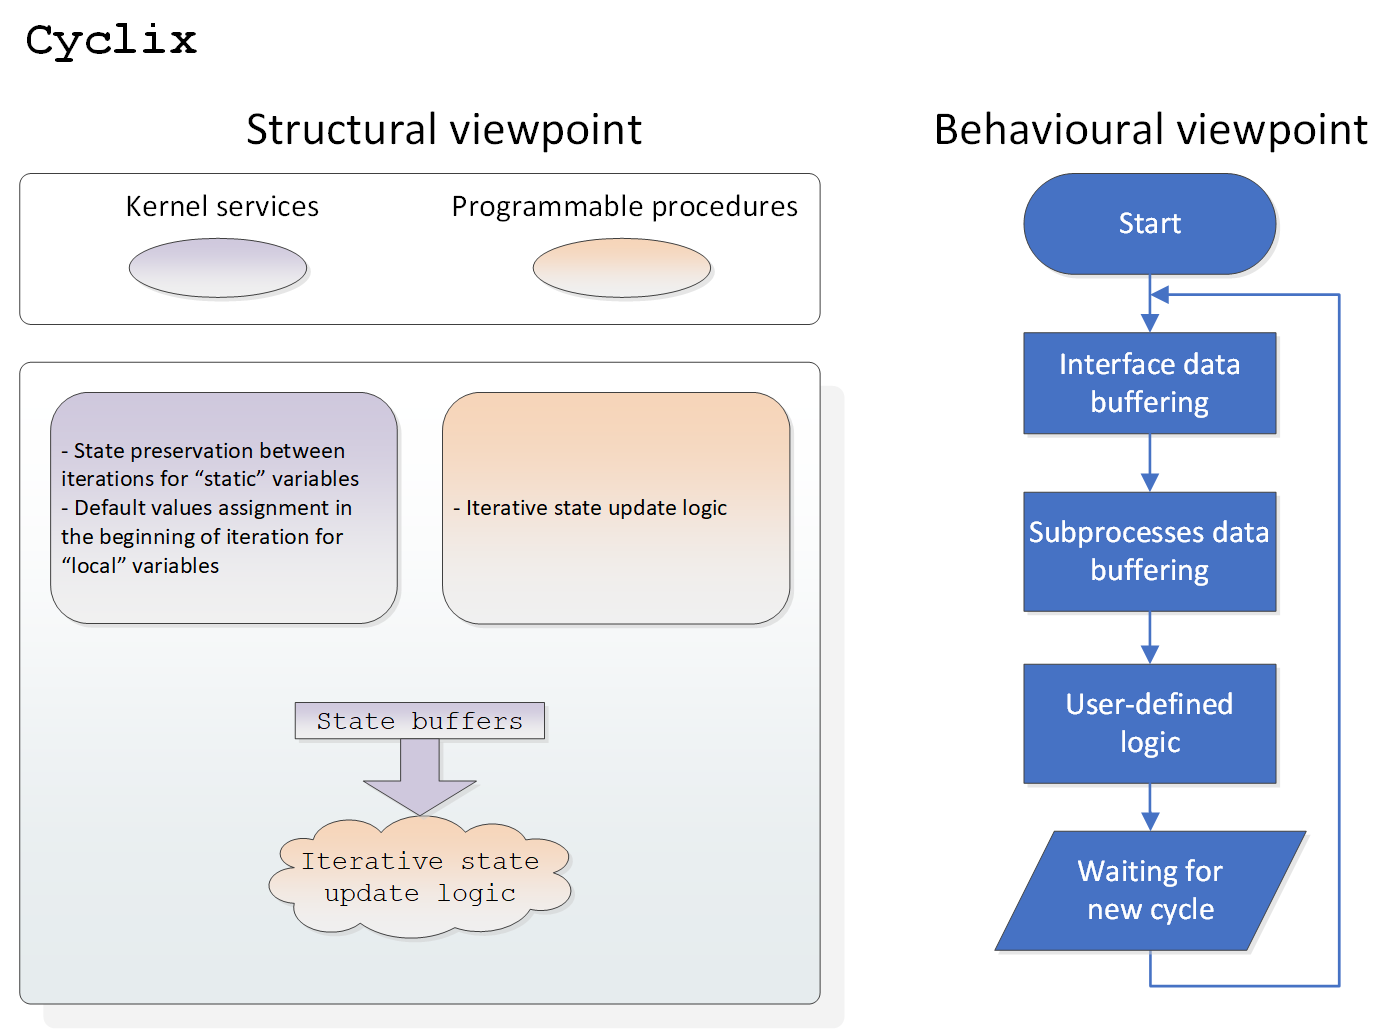
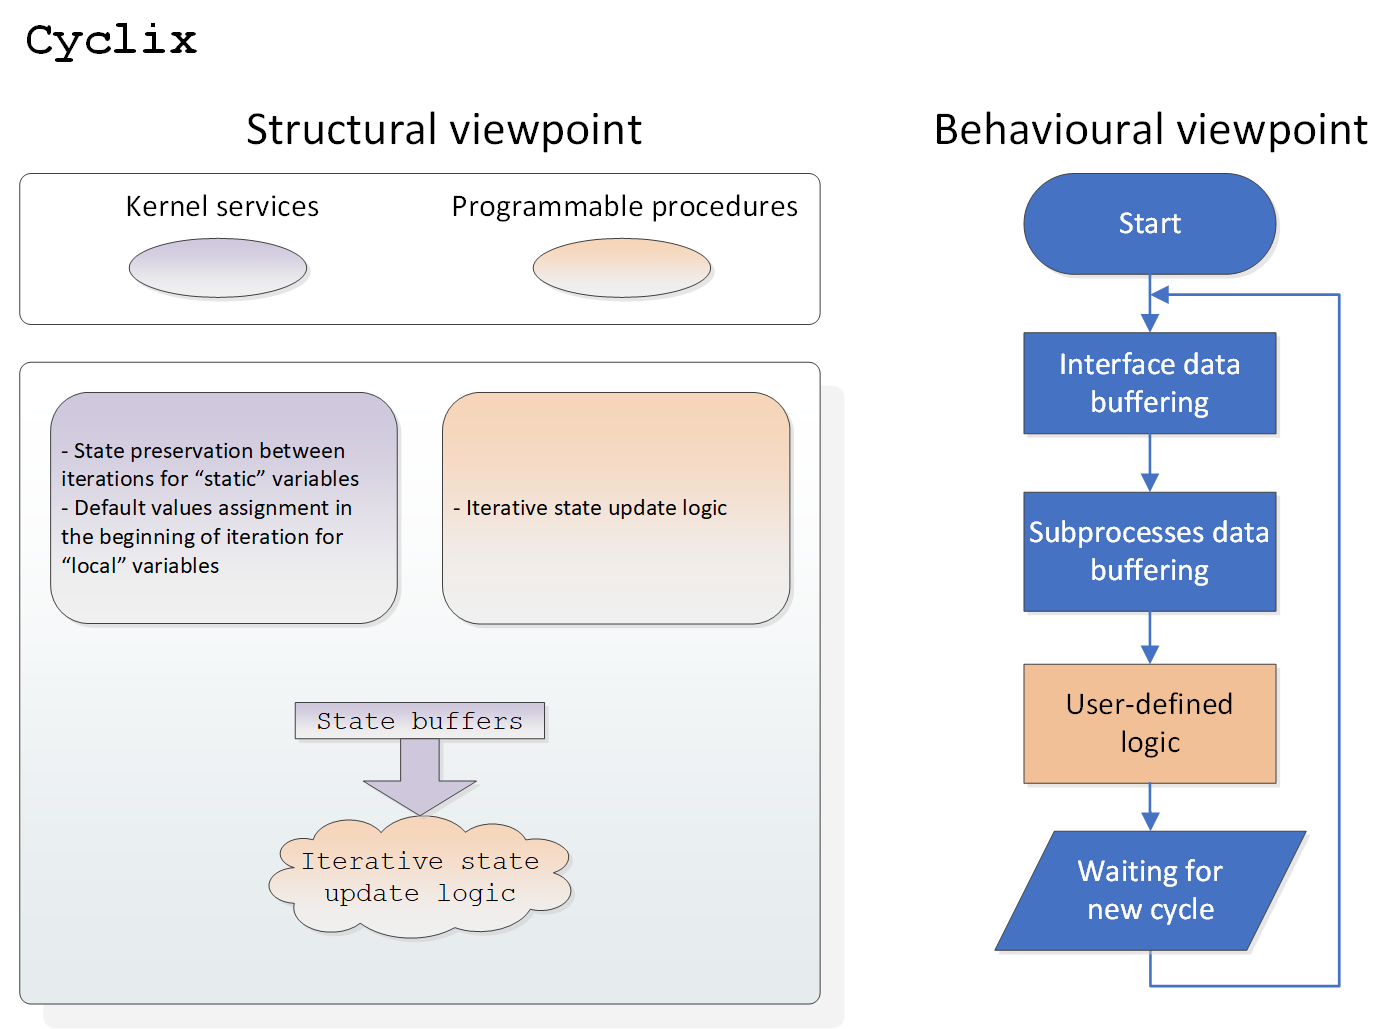
Minor cleanups

Changed region(s): [[0.7095, 0.622, 0.9254, 0.7775]]

diff --git a/kernelip/rtl/src/SvWriter.kt b/kernelip/rtl/src/SvWriter.kt
@@ -71,7 +71,7 @@ class SvWriter(var mod : module) {
         return ret_val
     }
 
-    fun export_structvar(preambule_uncond : String, preambule_cond : String, trailer : String, structvar : hw_structvar, wrFile : java.io.OutputStreamWriter) {
+    fun export_structvar(preambule_uncond : String, preambule_cond : String, preambule_pkg : String, trailer : String, structvar : hw_structvar, wrFile : java.io.OutputStreamWriter) {
         var dimstring = ""
         if (structvar.vartype.DataType == DATA_TYPE.STRUCTURED) {
             if (!structvar.vartype.dimensions.isEmpty()) {
@@ -80,6 +80,7 @@ class SvWriter(var mod : module) {
                 }
             }
             wrFile.write(preambule_uncond
+                    + preambule_pkg
                     + structvar.vartype.src_struct.name
                     + " "
                     + structvar.name
@@ -383,7 +384,7 @@ class SvWriter(var mod : module) {
             wrFileInterface.write("\ntypedef struct packed {\n")
             if (hw_struct.value.isEmpty()) hw_struct.value.addu("DUMMY", 0, 0, "0")
             for (structvar in hw_struct.value) {
-                export_structvar("\t", "logic ", ";\n", structvar, wrFileInterface)
+                export_structvar("\t", "logic ", "", ";\n", structvar, wrFileInterface)
             }
             wrFileInterface.write("} " + hw_struct.value.name + ";\n")
         }
@@ -415,7 +416,6 @@ class SvWriter(var mod : module) {
         for (incl_file in mods_included) {
             wrFileModule.write("`include \"" + incl_file + ".svh\"\n")
         }
-        wrFileModule.write("import " + mod.name + "_genpkg::*;\n")
 
         wrFileModule.write("\n")
         wrFileModule.write("module " + mod.name + " (\n")
@@ -423,6 +423,7 @@ class SvWriter(var mod : module) {
         for (port in mod.Ports) {
             wrFileModule.write(preambule)
             var preambule_cond = "logic "
+            var preambule_pkg = if (port.vartype.DataType == DATA_TYPE.STRUCTURED) (mod.name + "_genpkg::") else ""
             var dir_string = ""
             //var assign_default_string = (" = " + getStringAssignDefval(port, port.defval))
             var assign_default_string = ""
@@ -430,12 +431,13 @@ class SvWriter(var mod : module) {
             else if (port.port_dir == PORT_DIR.OUT) dir_string = "output"
             else if (port.port_dir == PORT_DIR.INOUT) dir_string = "inout"
             else ERROR("port type unrecognized!")
-            export_structvar((dir_string + " "), preambule_cond, assign_default_string, port, wrFileModule)
+            export_structvar((dir_string + " "), preambule_cond, preambule_pkg, assign_default_string, port, wrFileModule)
             preambule = "\n\t, "
         }
 
         wrFileModule.write("\n);\n")
         wrFileModule.write("\n")
+        wrFileModule.write("import " + mod.name + "_genpkg::*;\n\n")
 
         MSG("Exporting modules and ports: done")
 
@@ -450,7 +452,7 @@ class SvWriter(var mod : module) {
             wrFileModule.write("typedef struct packed {\n")
             if (hw_struct.value.isEmpty()) hw_struct.value.addu("DUMMY", 0, 0, "0")
             for (structvar in hw_struct.value) {
-                export_structvar("\t", "logic ", ";\n", structvar, wrFileModule)
+                export_structvar("\t", "logic ", "", ";\n", structvar, wrFileModule)
             }
             wrFileModule.write("} " + hw_struct.value.name + ";\n\n")
         }
@@ -460,7 +462,7 @@ class SvWriter(var mod : module) {
 
         MSG("Exporting combinationals...")
         for (comb in mod.Combs) {
-            export_structvar("", "logic ", ";\n", comb, wrFileModule)
+            export_structvar("", "logic ", "", ";\n", comb, wrFileModule)
         }
         wrFileModule.write("\n")
 
@@ -472,7 +474,7 @@ class SvWriter(var mod : module) {
 
             MSG("Exporting mem: " + mem.name + "...")
 
-            export_structvar("","logic ", ";\n", mem, wrFileModule)
+            export_structvar("","logic ", "", ";\n", mem, wrFileModule)
 
             if (mem.mem_srcs.size == 0) throw Exception("Mem signals with no sources is not supported, mem signal: %s!\n")
             else {

diff --git a/README.md b/README.md
@@ -47,7 +47,7 @@ KIP cores concept have proven to be convenient for hardware generation based on 
 
 **Transaction** - data structure whose fields share a common order of initialization, circulation, and termination within the data path of a hardware unit, and which triggers modifications to internal and external states in accordance with specified processing functions as it circulates through the stages of this data path.
 
-(see also close analogue, though implemented differently: TL-Verilog project)
+See also relevant project (though implemented differently): TL-Verilog.
 
 * Demo core generators based on KIP cores (location: /designs/coregen):
 	* **Taylor** - sine wave generator demonstrating usage of stalling and credit-based flow control mechanisms, based on Pipex KIP core. Location: /designs/rtl/taylor
